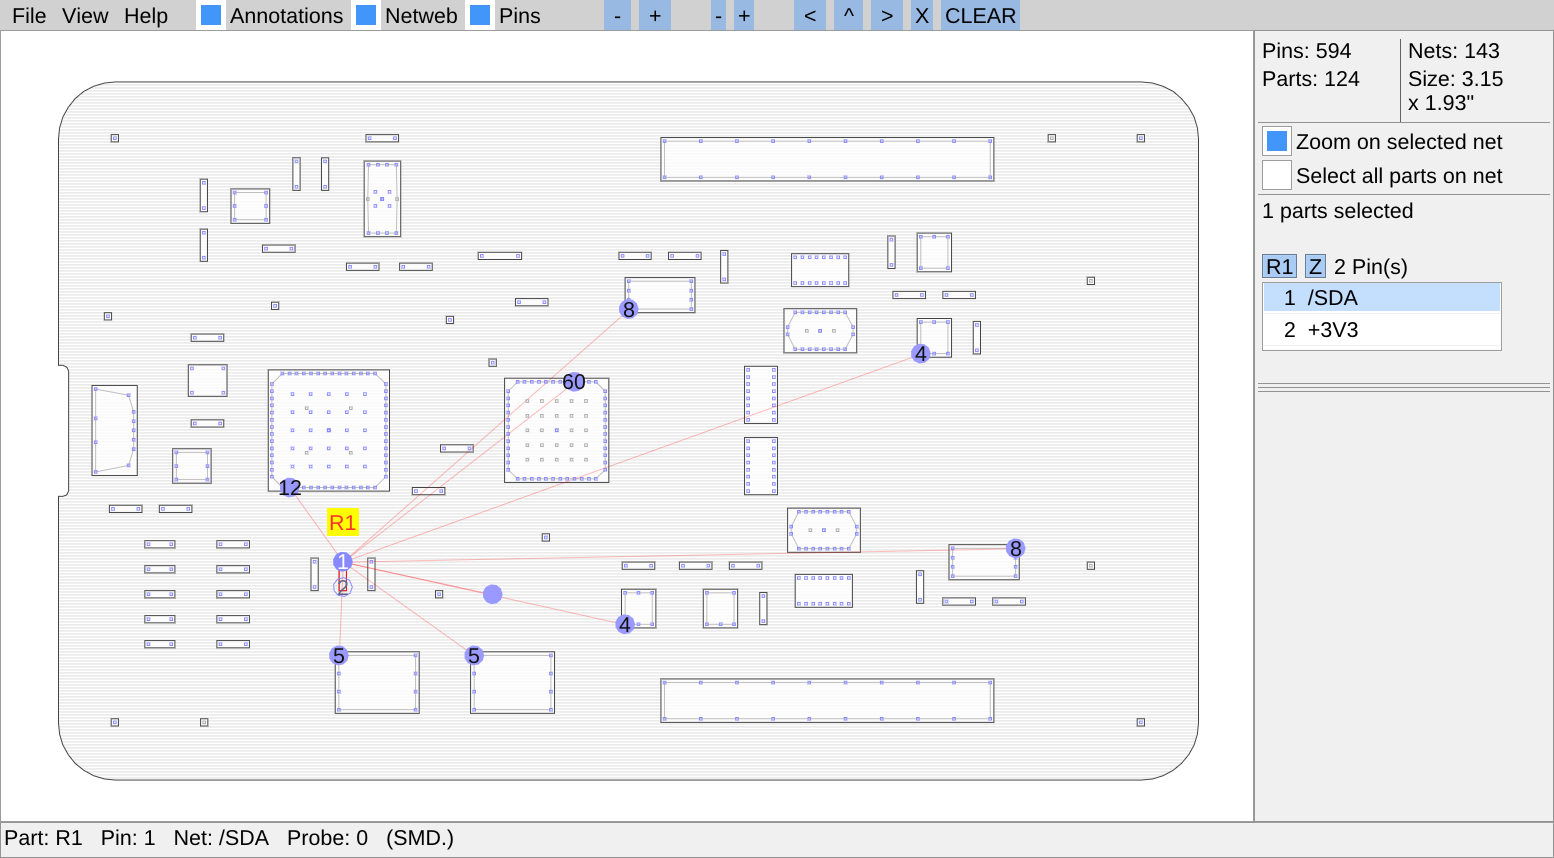
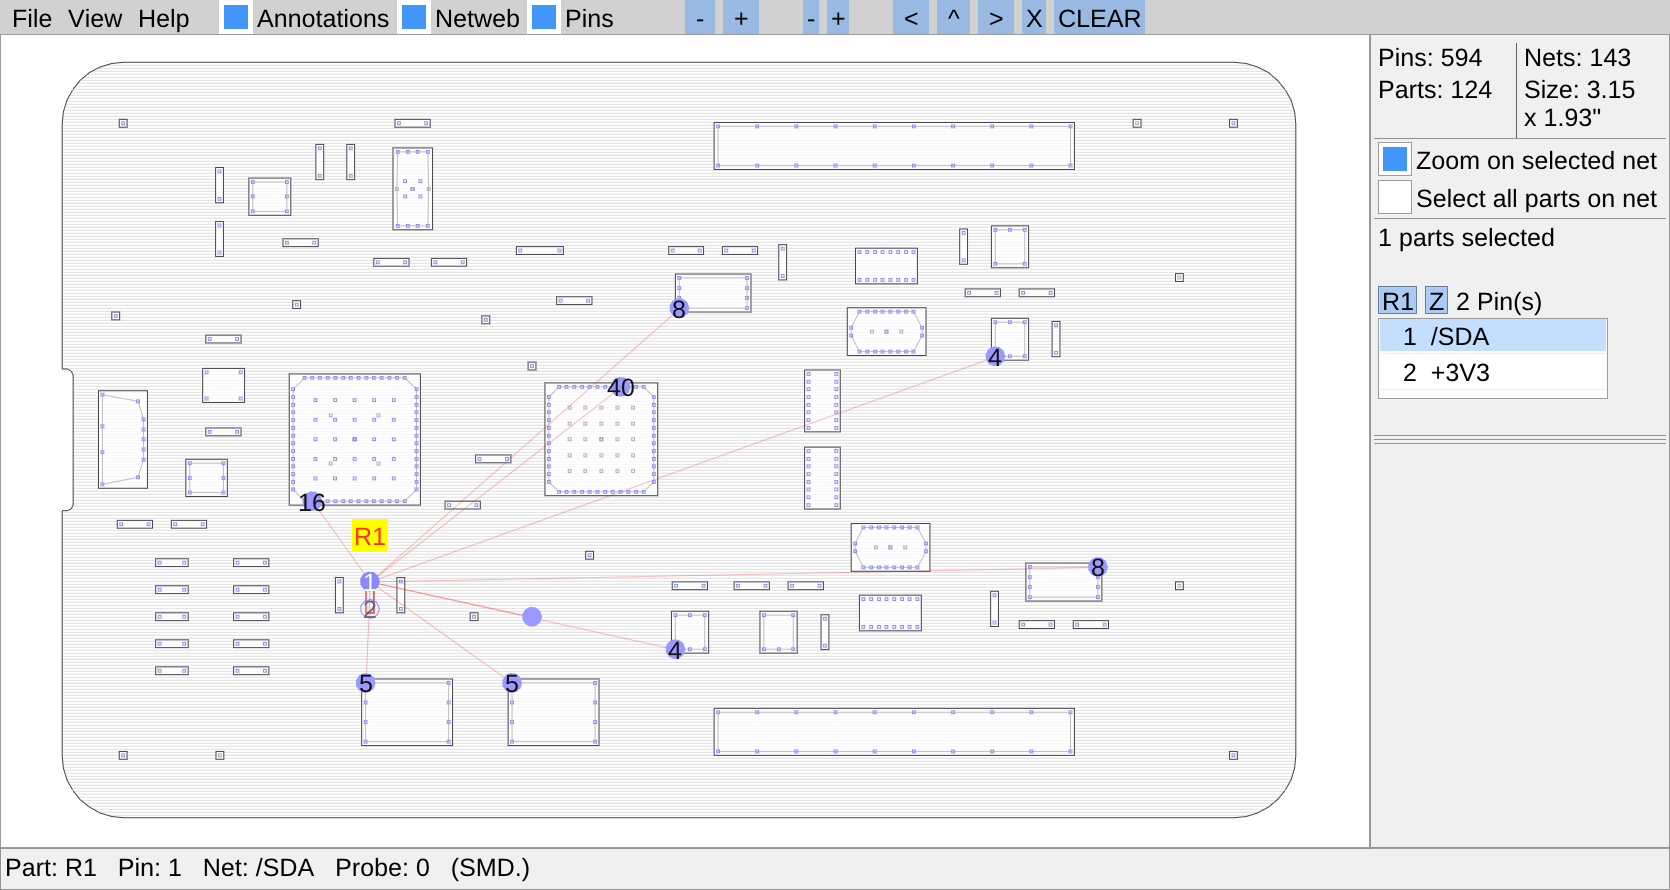
Fix pin numbering... mostly.

diff --git a/pcbnew2boardview.py b/pcbnew2boardview.py
@@ -1,7 +1,9 @@
 #!/usr/bin/env python2.7
 
 import sys
+import re
 import argparse
+
 import pcbnew
 
 
@@ -19,6 +21,12 @@ def y_coord(obj, maxy, y):
         return coord(maxy - y)
     else:
         return coord(y)
+
+def pad_sort_key(name):
+    if re.match(r"^\d+$", name):
+        return (0, int(name))
+    else:
+        return (1, name)
 
 
 def convert(pcb, brd):
@@ -88,7 +96,7 @@ def convert(pcb, brd):
     while module_list:
         if not skip_module(module_list):
             pads_list = module_list.PadsList()
-            for pad in sorted(pads_list, key=lambda pad: pad.GetName()):
+            for pad in sorted(pads_list, key=lambda pad: pad_sort_key(pad.GetName())):
                 pads.append(pad)
         module_list = module_list.Next()
 

diff --git a/README.md b/README.md
@@ -34,6 +34,8 @@ For comparison, the PCB layout looks like this:
 
 ## Caveats
 
+  * If the pin numbering on KiCAD modules does not start with pin 1 and continue consecutively until last pin with an integer name, the pin numbering on the boardview will be wrong.
+  * Similarly to the previous caveat, the format does not allow to represent pin names such as `PAD` (on QFN packages) or `A0` (on BGA packages) correctly. These will be assigned arbitrary (but consistent) numbers instead.
   * There is an unknown field in the ".brd" files, written as `0`. It is ignored by OpenBoardView, but might actually mean something.
   * The `NAILS:` section, used for describing testpoint placement, is not emitted. Open an issue if you have enough testpoints that it is useful for you.
 
